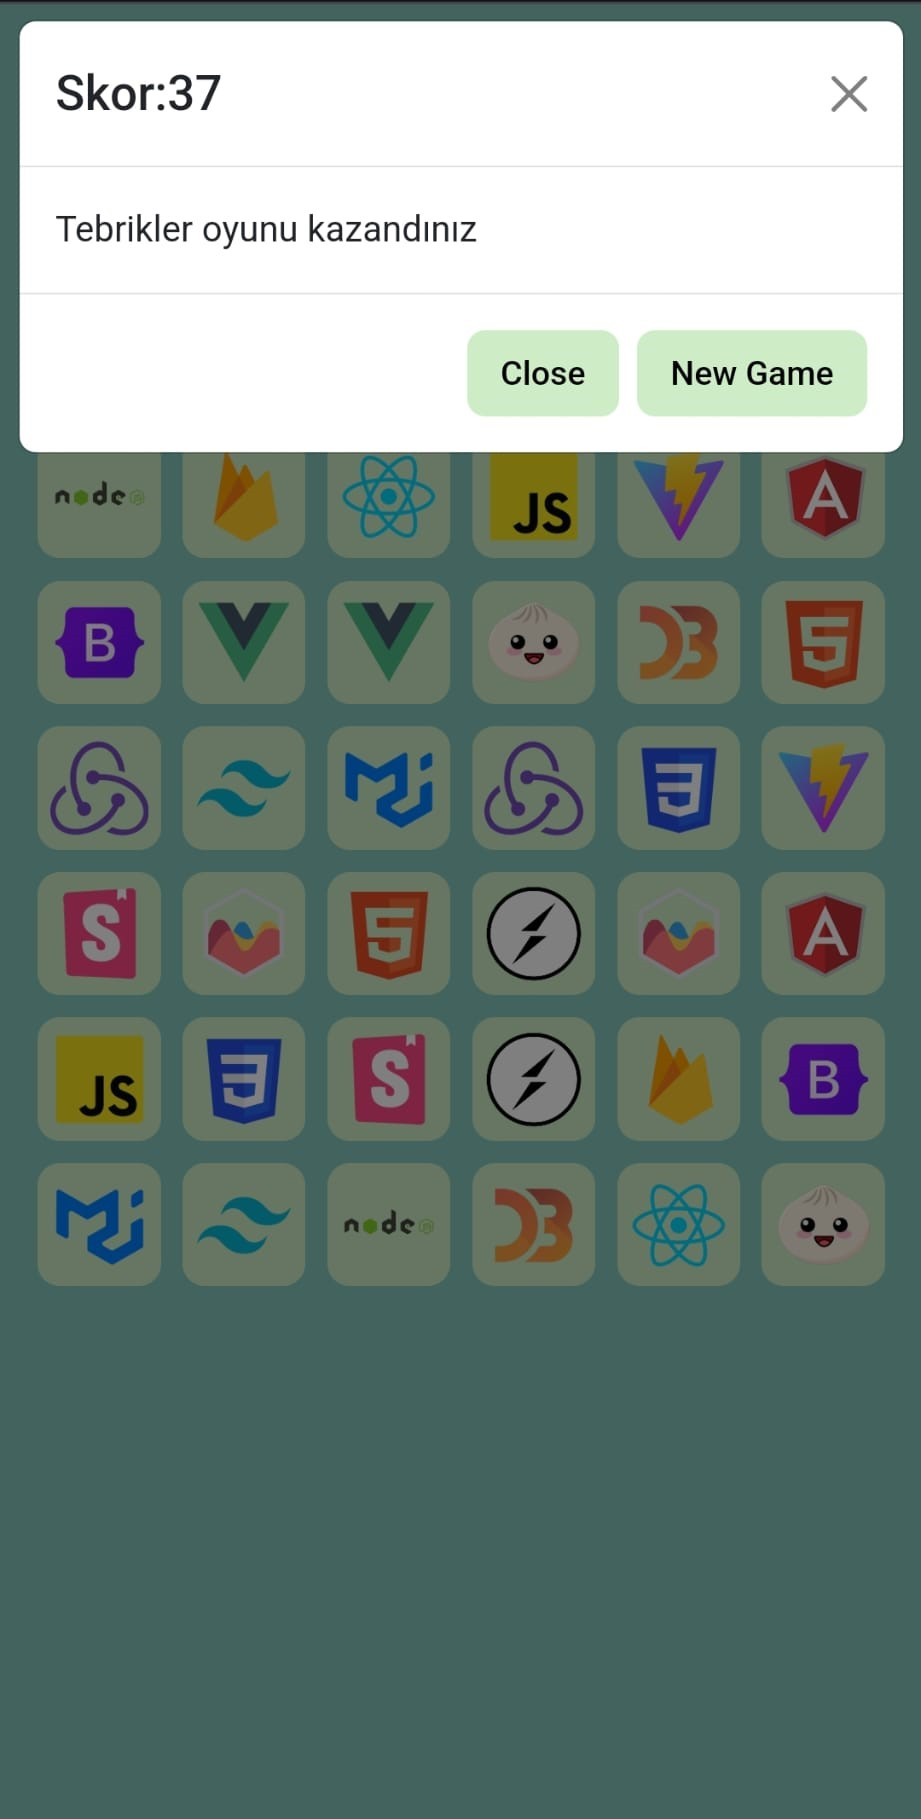
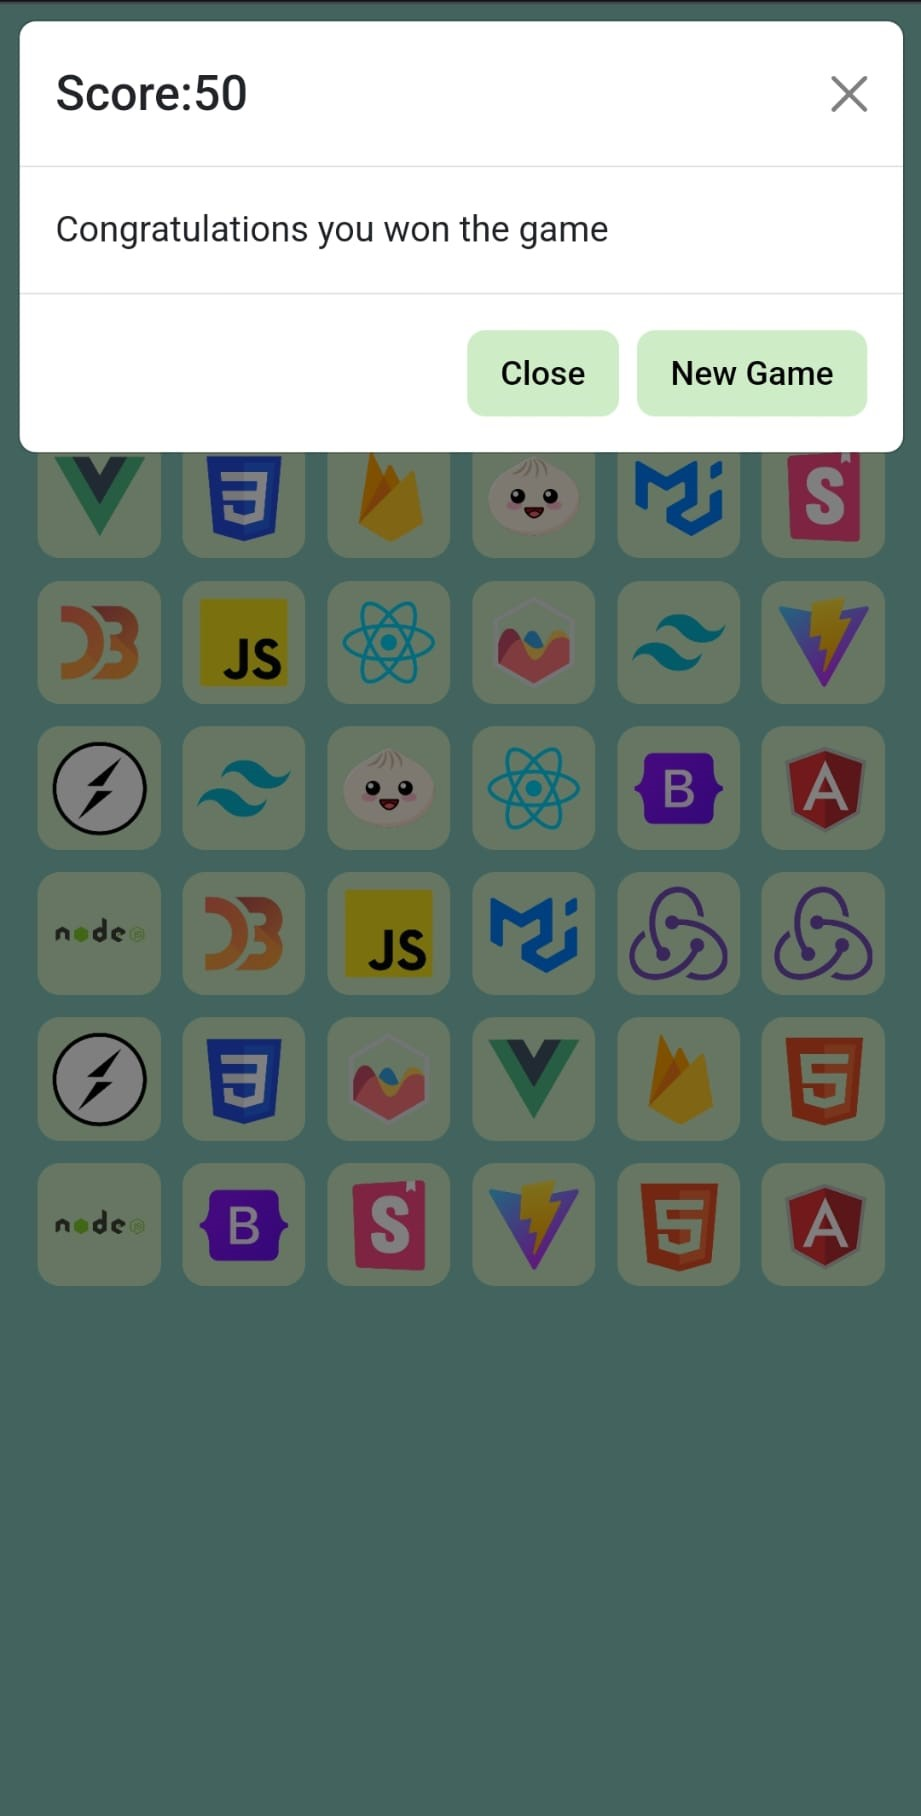
screenshot updated

diff --git a/Ogrenciler/alpayozer/MentorWorks/MemoryGame/memory-game/src/components/Modal/Popup/Popup.jsx b/Ogrenciler/alpayozer/MentorWorks/MemoryGame/memory-game/src/components/Modal/Popup/Popup.jsx
@@ -12,7 +12,7 @@ const Popup = ({ show, setShow, shuffleCards, score }) => {
     <>
       <Modal show={show} onHide={handleClose}>
         <Modal.Header closeButton>
-          <Modal.Title>Skor:{score}</Modal.Title>
+          <Modal.Title>Score:{score}</Modal.Title>
         </Modal.Header>
         <Modal.Body>Congratulations you won the game</Modal.Body>
         <Modal.Footer>
